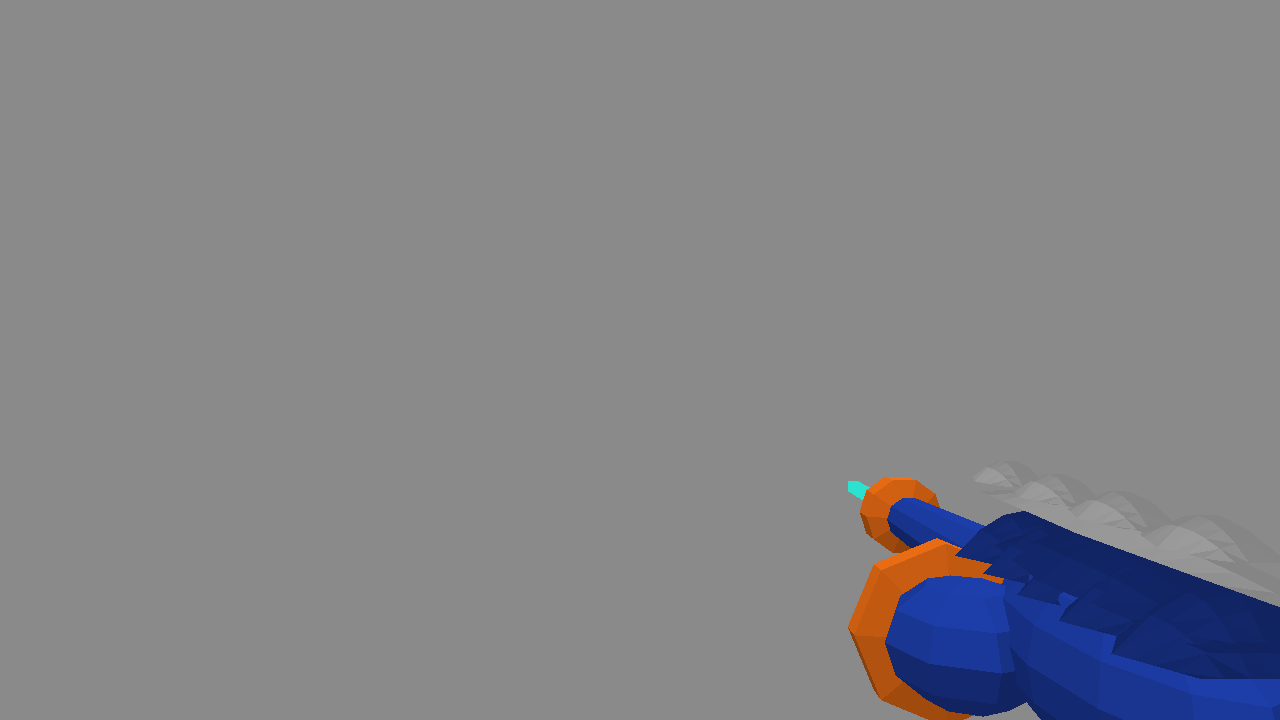
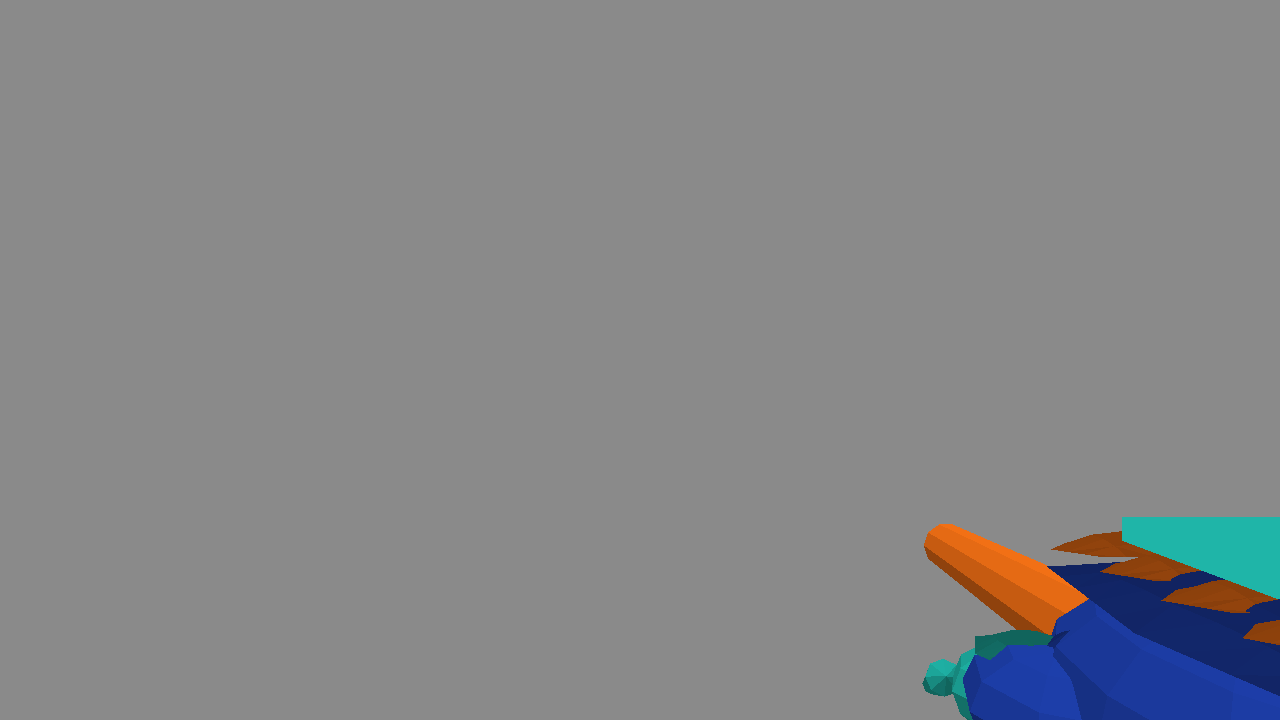
Polish Vex's viewmodel: teal gloves, cobalt sleeves, orange barrel.
The pulse rifle is chunkier, with a magazine and a teal glow strip. The muzzle flash is about half size, emissive under bloom, and fades across three frames. The rifle sits slightly lower and to the right.

Changed region(s): [[0.6562, 0.6417, 1.0, 1.0]]

diff --git a/crates/client/src/world.rs b/crates/client/src/world.rs
@@ -60,13 +60,15 @@ pub(crate) struct Pickup {
 #[derive(Component)]
 pub(crate) struct Flash {
     life: f32,
+    /// Seconds the flash fades across. Zero keeps a hard cutoff (hit pings).
+    fade: f32,
 }
 
 /// Overlay camera. Its children are the first-person arms, on their own layer.
 #[derive(Component)]
 pub(crate) struct ViewmodelCamera;
 
-/// Barrel tube, muzzle ring, and core. Overdrive swaps these to an orange glow.
+/// Orange barrel and stripes. Overdrive swaps them to a hotter emissive. The teal strip stays teal.
 #[derive(Component)]
 pub(crate) struct BarrelGlow {
     idle: Handle<StandardMaterial>,
@@ -208,7 +210,7 @@ pub fn scene(
         ..default()
     });
     let trim_idle = trim_handle.clone();
-    let core_idle = mat_of(&bank, "shots_player", true, false);
+    let strip = mat_of(&bank, "hero_teal", true, false);
     let cobalt_idle = mat_of(&bank, "hero_cobalt", false, false);
     // The world camera draws layer 0. The overlay camera draws the arms on
     // layer 1 with its own depth buffer, so the rifle cannot clip into the arena.
@@ -245,6 +247,10 @@ pub fn scene(
                 ..default()
             }),
             RenderLayers::layer(1),
+            // Same HDR bloom path as the world camera, so the muzzle flash and the
+            // teal strip glow instead of sitting as flat unlit color.
+            Hdr,
+            Bloom::NATURAL,
             ChildOf(world_cam),
         ))
         .id();
@@ -255,9 +261,9 @@ pub fn scene(
         (upload(&mut meshes, &vm.white), mat_of(&bank, "hero_white", false, false), None),
         (
             upload(&mut meshes, &vm.barrel),
-            cobalt_idle.clone(),
+            trim_idle.clone(),
             Some(BarrelGlow {
-                idle: cobalt_idle.clone(),
+                idle: trim_idle.clone(),
                 hot: barrel_hot.clone(),
             }),
         ),
@@ -269,14 +275,7 @@ pub fn scene(
                 hot: barrel_hot.clone(),
             }),
         ),
-        (
-            upload(&mut meshes, &vm.core),
-            core_idle.clone(),
-            Some(BarrelGlow {
-                idle: core_idle,
-                hot: barrel_hot.clone(),
-            }),
-        ),
+        (upload(&mut meshes, &vm.core), strip, None),
     ];
     for (mesh, mat, glow) in pieces {
         let mut entity = commands.spawn((
@@ -305,7 +304,11 @@ pub fn sync(
     mut parts: Query<(&mut BugPart, &mut Transform, &mut Visibility), (Without<BugLod>, Without<BugRoot>, Without<Shot>, Without<Flash>)>,
     mut lods: Query<(&mut Transform, &mut Visibility), (With<BugLod>, Without<BugPart>, Without<BugRoot>, Without<Shot>, Without<Flash>)>,
     mut shots: Query<&mut Transform, (With<Shot>, Without<BugRoot>, Without<BugPart>, Without<BugLod>, Without<Flash>)>,
-    mut flashes: Query<(Entity, &mut Flash, &mut Transform), (Without<Shot>, Without<BugRoot>, Without<BugPart>, Without<BugLod>)>,
+    mut flashes: Query<
+        (Entity, &mut Flash, &mut Transform, &MeshMaterial3d<StandardMaterial>),
+        (Without<Shot>, Without<BugRoot>, Without<BugPart>, Without<BugLod>),
+    >,
+    mut materials: ResMut<Assets<StandardMaterial>>,
     time: Res<Time>,
     assets: Res<AssetServer>,
 ) {
@@ -484,7 +487,7 @@ pub fn sync(
             Mesh3d(bank.flash.clone()),
             MeshMaterial3d(mat_of(&bank, "hero_white", true, true)),
             Transform::from_xyz(ping.pos.x, ping.pos.y, ping.pos.z).with_scale(bevy::math::Vec3::splat(scale)),
-            Flash { life: if ping.weak { 0.18 } else { 0.1 } },
+            Flash { life: if ping.weak { 0.18 } else { 0.1 }, fade: 0.0 },
             PlayPiece,
         ));
         if ping.weak {
@@ -492,15 +495,23 @@ pub fn sync(
                 Mesh3d(bank.ring.clone()),
                 MeshMaterial3d(mat_of(&bank, "spitter_glow", true, false)),
                 Transform::from_xyz(ping.pos.x, ping.pos.y, ping.pos.z).with_scale(bevy::math::Vec3::splat(1.8)),
-                Flash { life: 0.22 },
+                Flash { life: 0.22, fade: 0.0 },
                 PlayPiece,
             ));
         }
     }
     let dt = time.delta_secs();
-    for (entity, mut flash, mut xf) in &mut flashes {
+    let accent = game.content.palette.key("accent");
+    for (entity, mut flash, mut xf, mat) in &mut flashes {
         flash.life -= dt;
         xf.scale *= 1.0 + dt * 4.0;
+        if flash.fade > 0.0 {
+            let t = (flash.life / flash.fade).clamp(0.0, 1.0);
+            if let Some(mut material) = materials.get_mut(&mat.0) {
+                material.base_color = Color::srgba(accent[0], accent[1], accent[2], t);
+                material.emissive = LinearRgba::rgb(accent[0] * 8.0 * t, accent[1] * 8.0 * t, accent[2] * 8.0 * t);
+            }
+        }
         if flash.life <= 0.0 {
             commands.entity(entity).despawn();
         }
@@ -615,6 +626,7 @@ pub fn sync_viewmodel(
     game: Res<Game>,
     fx: Res<FrameFx>,
     bank: Res<Bank>,
+    mut materials: ResMut<Assets<StandardMaterial>>,
     mut barrels: Query<(&BarrelGlow, &mut MeshMaterial3d<StandardMaterial>)>,
     cam: Query<Entity, With<ViewmodelCamera>>,
 ) {
@@ -633,12 +645,23 @@ pub fn sync_viewmodel(
     let Ok(cam) = cam.single() else { return };
     let offset = game.content.hero.viewmodel_offset;
     let tip = gemini_meshes::muzzle_local();
+    let accent = game.content.palette.key("accent");
+    // About half the old 0.55 flash, emissive so the viewmodel bloom picks it up.
+    // 3/60 s is three frames at 60 Hz.
+    let life = 3.0 / 60.0;
+    let flash_mat = materials.add(StandardMaterial {
+        base_color: Color::srgba(accent[0], accent[1], accent[2], 1.0),
+        emissive: LinearRgba::rgb(accent[0] * 8.0, accent[1] * 8.0, accent[2] * 8.0),
+        unlit: true,
+        alpha_mode: AlphaMode::Blend,
+        ..default()
+    });
     commands.spawn((
         Mesh3d(bank.flash.clone()),
-        MeshMaterial3d(bank.barrel_hot.clone()),
-        Transform::from_xyz(offset[0] + tip[0], offset[1] + tip[1], offset[2] + tip[2]).with_scale(Vec3::splat(0.55)),
+        MeshMaterial3d(flash_mat),
+        Transform::from_xyz(offset[0] + tip[0], offset[1] + tip[1], offset[2] + tip[2]).with_scale(Vec3::splat(0.27)),
         RenderLayers::layer(1),
-        Flash { life: 0.07 },
+        Flash { life, fade: life },
         PlayPiece,
         ChildOf(cam),
     ));

diff --git a/crates/meshes/src/lib.rs b/crates/meshes/src/lib.rs
@@ -76,7 +76,7 @@ impl Viewmodel {
 
 /// Barrel tip in viewmodel mesh space, before the screen offset from characters.toml.
 pub fn muzzle_local() -> [f32; 3] {
-    [0.02, -0.005, -1.30]
+    [0.03, -0.005, -1.28]
 }
 
 pub fn viewmodel() -> Viewmodel {
@@ -117,42 +117,32 @@ fn recolor(src: &MeshData, color: [f32; 4]) -> MeshData {
 }
 
 fn glove(vm: &mut Viewmodel, anchor: [f32; 3], side: f32, ink: [f32; 4]) {
+    // Cobalt sleeve. Teal plates sit on the forearm; the glove and fingers are teal.
     geom::gem(
         &mut vm.cobalt,
-        [anchor[0], anchor[1] + 0.01, anchor[2] + 0.07],
-        [0.075, 0.06, 0.09],
-        8,
-        6,
-        ink,
-    );
-    geom::gem(
-        &mut vm.teal,
-        [anchor[0] - side * 0.01, anchor[1] - 0.015, anchor[2] - 0.05],
-        [0.06, 0.045, 0.075],
+        [anchor[0], anchor[1] + 0.01, anchor[2] + 0.08],
+        [0.08, 0.055, 0.13],
         8,
         6,
         ink,
     );
     geom::plate(
-        &mut vm.white,
-        [anchor[0], anchor[1] + 0.04, anchor[2] - 0.03],
+        &mut vm.teal,
+        [anchor[0], anchor[1] + 0.045, anchor[2] + 0.02],
+        0.12,
         0.11,
-        0.1,
-        0.028,
+        0.02,
         8,
         5,
         ink,
     );
-    spoke(
-        &mut vm.accent,
-        0.03,
-        0.09,
-        0.09,
+    geom::gem(
+        &mut vm.teal,
+        [anchor[0] - side * 0.01, anchor[1] - 0.015, anchor[2] - 0.05],
+        [0.065, 0.048, 0.08],
         8,
+        6,
         ink,
-        [anchor[0], anchor[1], anchor[2] + 0.01],
-        std::f32::consts::FRAC_PI_2,
-        0.0,
     );
     for i in 0..4 {
         let spread = (i as f32 - 1.5) * 0.03;
@@ -182,53 +172,43 @@ fn glove(vm: &mut Viewmodel, anchor: [f32; 3], side: f32, ink: [f32; 4]) {
 }
 
 fn rifle(vm: &mut Viewmodel, ink: [f32; 4]) {
-    geom::gem(&mut vm.cobalt, [0.02, -0.02, -0.3], [0.075, 0.08, 0.2], 12, 8, ink);
-    geom::plate(&mut vm.cobalt, [0.02, 0.045, -0.3], 0.38, 0.13, 0.035, 10, 6, ink);
-    geom::plate(&mut vm.cobalt, [0.09, -0.01, -0.3], 0.34, 0.1, 0.03, 8, 5, ink);
-    geom::plate(&mut vm.white, [0.02, 0.08, -0.32], 0.52, 0.055, 0.02, 14, 4, ink);
+    // Chunkier receiver, a magazine under it, and a teal strip along the side.
+    geom::gem(&mut vm.cobalt, [0.03, -0.02, -0.28], [0.12, 0.11, 0.28], 12, 8, ink);
+    geom::plate(&mut vm.cobalt, [0.03, 0.07, -0.28], 0.5, 0.18, 0.04, 10, 6, ink);
+    geom::plate(&mut vm.cobalt, [0.12, -0.01, -0.28], 0.46, 0.12, 0.035, 8, 5, ink);
+    geom::box_mesh(&mut vm.cobalt, [0.03, -0.15, -0.26], [0.07, 0.15, 0.09], ink);
+    // On the top face, toward the camera, so the strip is not buried in the receiver.
+    geom::box_mesh(&mut vm.core, [0.03, 0.14, -0.24], [0.14, 0.02, 0.2], ink);
+    geom::gem(&mut vm.core, [0.03, 0.15, -0.12], [0.04, 0.016, 0.05], 6, 4, ink);
+    for i in 0..3 {
+        let z = -0.18 - i as f32 * 0.12;
+        geom::plate(&mut vm.cobalt, [0.03, 0.02, z], 0.12, 0.2, 0.04, 8, 6, ink);
+    }
     spoke(
         &mut vm.barrel,
-        0.46,
-        0.042,
-        0.03,
+        0.52,
+        0.048,
+        0.034,
         10,
         ink,
-        [0.02, -0.005, -0.5],
+        [0.03, -0.005, -0.52],
         std::f32::consts::FRAC_PI_2,
         0.0,
     );
     spoke(
         &mut vm.cobalt,
-        0.14,
-        0.045,
-        0.03,
+        0.16,
+        0.05,
+        0.032,
         8,
         ink,
-        [0.02, -0.05, -0.16],
+        [0.03, -0.06, -0.14],
         2.35,
         0.15,
     );
-    spoke(
-        &mut vm.accent,
-        0.045,
-        0.055,
-        0.055,
-        10,
-        ink,
-        [0.02, -0.005, -0.94],
-        std::f32::consts::FRAC_PI_2,
-        0.0,
-    );
-    geom::gem(&mut vm.accent, [0.1, -0.01, -0.26], [0.03, 0.025, 0.07], 8, 6, ink);
-    geom::gem(&mut vm.core, [0.075, 0.01, -0.22], [0.035, 0.04, 0.06], 8, 6, ink);
-    geom::box_mesh(&mut vm.core, [0.02, -0.005, -1.12], [0.018, 0.018, 0.32], ink);
-    for i in 0..5 {
-        let z = -0.16 - i as f32 * 0.08;
-        geom::plate(&mut vm.cobalt, [0.02, 0.03, z], 0.1, 0.15, 0.045, 8, 6, ink);
-        geom::plate(&mut vm.cobalt, [0.08, -0.035, z], 0.08, 0.09, 0.03, 6, 5, ink);
-    }
     for i in 0..4 {
-        geom::plate(&mut vm.white, [0.02, 0.095, -0.18 - i as f32 * 0.12], 0.1, 0.07, 0.022, 8, 5, ink);
+        let z = -0.16 - i as f32 * 0.1;
+        geom::plate(&mut vm.accent, [0.03, 0.1, z], 0.07, 0.16, 0.018, 6, 4, ink);
     }
 }
 

diff --git a/crates/meshes/src/preview.rs b/crates/meshes/src/preview.rs
@@ -76,23 +76,20 @@ pub fn raster_viewmodel(width: u32, height: u32, frame: &ViewmodelFrame) -> Vec<
         (shifted(&vm.cobalt, shift), palette("hero_cobalt"), false),
         (shifted(&vm.white, shift), palette("hero_white"), false),
     ];
+    // Barrel and stripes stay accent orange. The side strip stays teal and emissive.
+    parts.push((shifted(&vm.barrel, shift), orange, frame.overdrive));
+    parts.push((shifted(&vm.accent, shift), orange, frame.overdrive));
+    parts.push((shifted(&vm.core, shift), palette("hero_teal"), true));
     if frame.overdrive {
-        parts.push((shifted(&vm.barrel, shift), orange, true));
-        parts.push((shifted(&vm.accent, shift), orange, true));
-        parts.push((shifted(&vm.core, shift), orange, true));
         let mut flash = crate::MeshData::new();
         let tip = [
             shift[0] + crate::muzzle_local()[0],
             shift[1] + crate::muzzle_local()[1],
             shift[2] + crate::muzzle_local()[2],
         ];
-        crate::geom::gem(&mut flash, tip, [0.07, 0.07, 0.16], 8, 6, [1.0, 1.0, 1.0, 1.0]);
-        crate::geom::gem(&mut flash, tip, [0.16, 0.16, 0.04], 8, 4, [1.0, 1.0, 1.0, 1.0]);
+        crate::geom::gem(&mut flash, tip, [0.035, 0.035, 0.08], 8, 6, [1.0, 1.0, 1.0, 1.0]);
+        crate::geom::gem(&mut flash, tip, [0.08, 0.08, 0.02], 8, 4, [1.0, 1.0, 1.0, 1.0]);
         parts.push((flash, [1.0, 0.72, 0.28, 1.0], true));
-    } else {
-        parts.push((shifted(&vm.barrel, shift), palette("hero_cobalt"), false));
-        parts.push((shifted(&vm.accent, shift), orange, false));
-        parts.push((shifted(&vm.core, shift), palette("shots_player"), true));
     }
     let mut rgb = draw_parts(&parts, [0.0, 0.0, 0.0], [0.0, 0.0, -1.0], frame.fov, width, height);
     if frame.overdrive {

diff --git a/crates/sim/tests/rules.rs b/crates/sim/tests/rules.rs
@@ -981,7 +981,7 @@ fn vex_overdrive_comes_from_characters() {
     assert!((content.hero.kill_cd_refund - 1.0).abs() < 1e-4);
     let off = content.hero.viewmodel_offset;
     assert!(off[0] > 0.0 && off[1] < 0.0, "viewmodel should sit lower right, got {off:?}");
-    assert!((off[0] - 0.36).abs() < 1e-4 && (off[1] + 0.22).abs() < 1e-4 && (off[2] + 0.48).abs() < 1e-4);
+    assert!((off[0] - 0.44).abs() < 1e-4 && (off[1] + 0.28).abs() < 1e-4 && (off[2] + 0.48).abs() < 1e-4);
     assert!((content.hero.viewmodel_fov - 40.0).abs() < 1e-4);
     assert!(content.weapon("coil_rifle").is_none());
     let gun = content.weapon("pulse_rifle").unwrap();
